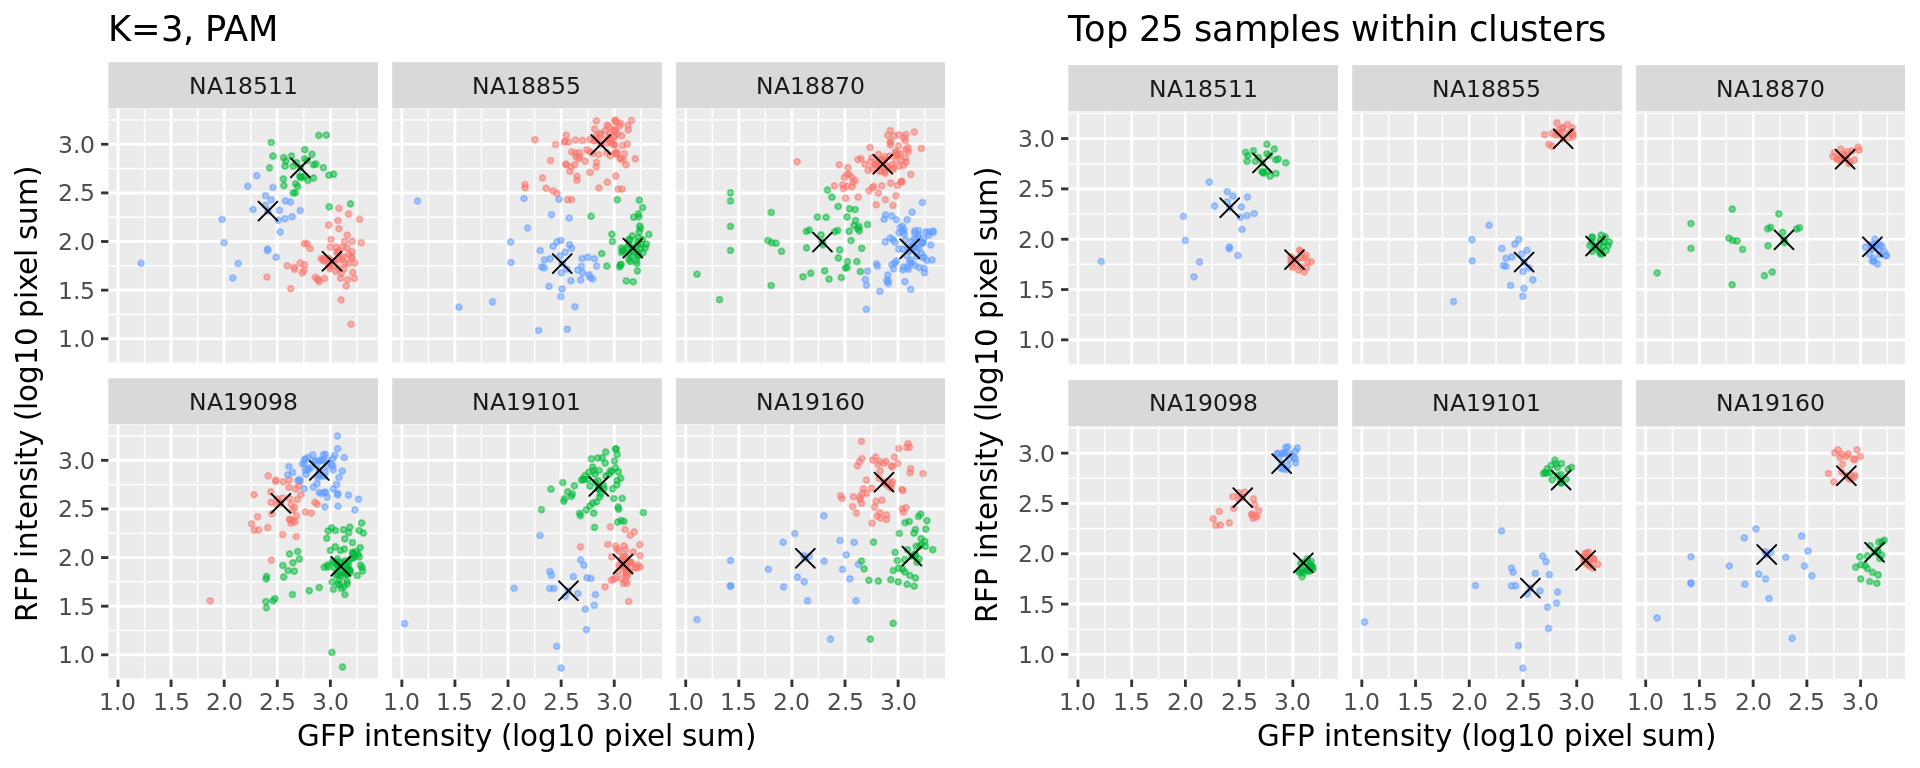
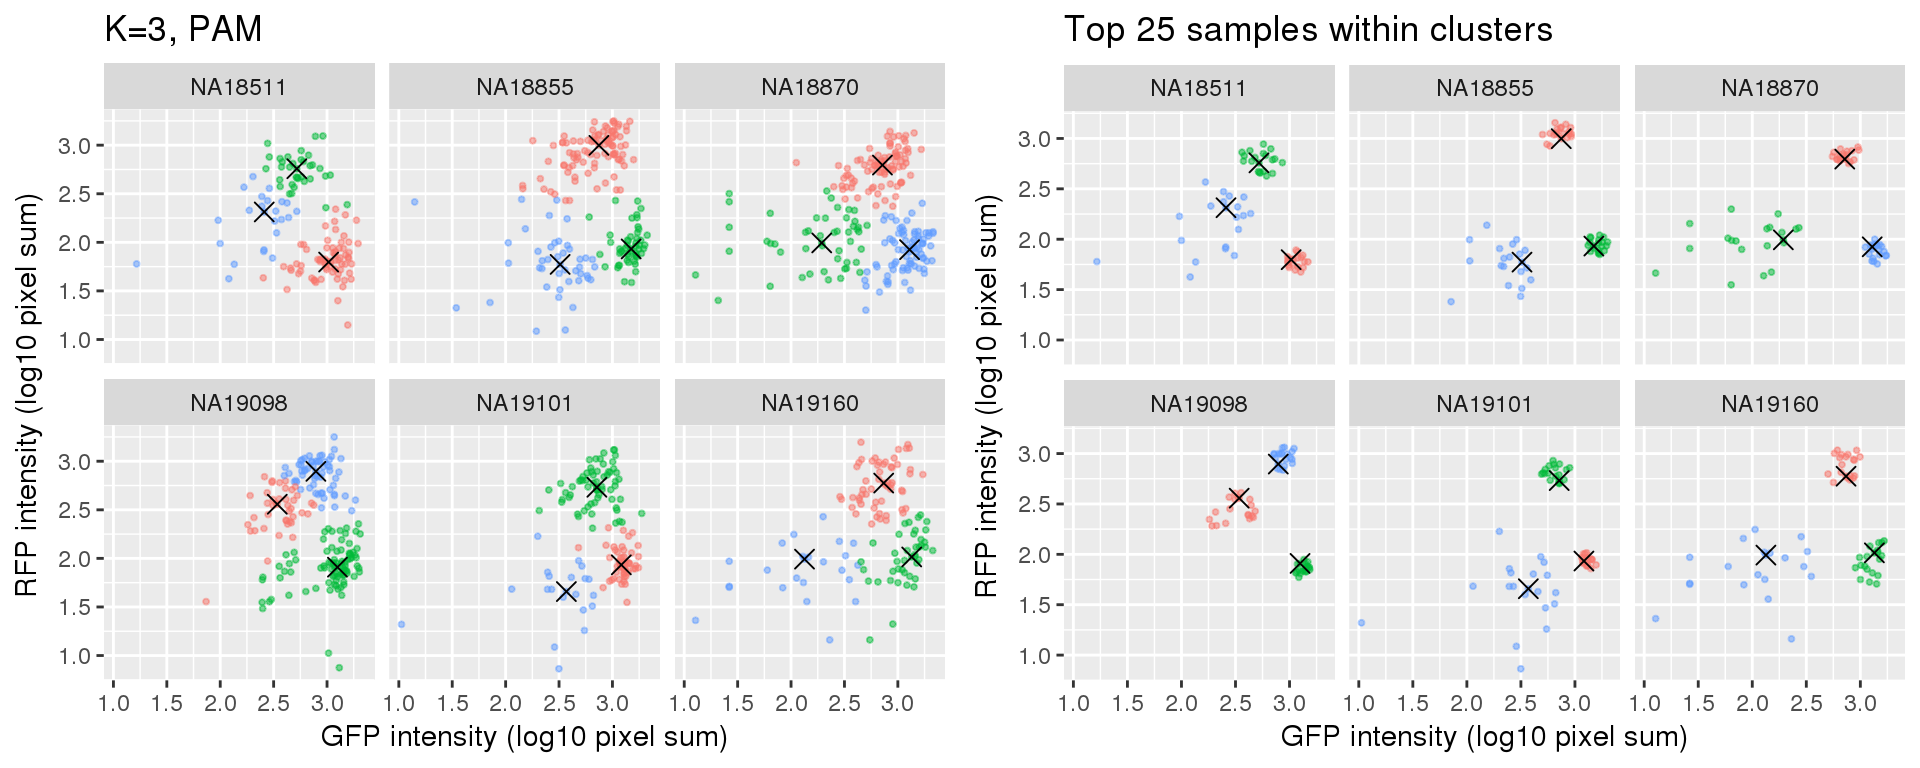
Build site.

diff --git a/docs/images-subset-silhouette.html b/docs/images-subset-silhouette.html
@@ -319,10 +319,10 @@ div.section {
 shared across the workflowr files. -->
 <!-- Update knitr chunk options -->
 <!-- Insert the date the file was last updated -->
-<p><strong>Last updated:</strong> 2018-01-31</p>
+<p><strong>Last updated:</strong> 2018-02-23</p>
 <!-- Insert the code version (Git commit SHA1) if Git repository exists and R
  package git2r is installed -->
-<p><strong>Code version:</strong> 8ea93f0</p>
+<p><strong>Code version:</strong> c881cde</p>
 <hr />
 <div id="overviewresults" class="section level2">
 <h2>Overview/Results</h2>
@@ -357,11 +357,13 @@ pdata &lt;- pData(df)
 fdata &lt;- fData(df)
 
 # select endogeneous genes
-counts &lt;- exprs(df)[grep(&quot;ERCC&quot;, rownames(df), invert=TRUE), ]</code></pre>
+counts &lt;- exprs(df)[grep(&quot;ERCC&quot;, rownames(df), invert=TRUE), ]
+
+pdata.adj &lt;- readRDS(&quot;../output/images-normalize-anova.Rmd/pdata.adj.rds&quot;)</code></pre>
 <hr />
 </div>
-<div id="analysis" class="section level2">
-<h2>Analysis</h2>
+<div id="raw-data" class="section level2">
+<h2>Raw data</h2>
 <p>Fitting PAM for cells using only green and red intensity measurements.</p>
 <pre class="r"><code>ints &lt;- with(pdata, data.frame(rfp.median.log10sum,
                                gfp.median.log10sum))
@@ -416,17 +418,13 @@ mclust_fit_plot &lt;- do.call(rbind, lapply(1:uniqueN(ints$chip_id), function(i)
     df_sub &lt;- data.frame(df_sub, cluster=as.factor(mclust_fit[[i]]$classification))
     return(df_sub)
 }))</code></pre>
-<hr />
-</div>
-<div id="cluster-centers" class="section level2">
-<h2>Cluster centers</h2>
-<p>Compare PAM vs. Mclust results</p>
+<div id="compare-pam-vs.mclust" class="section level3">
+<h3>Compare PAM vs. Mclust</h3>
 <p><strong>k=3</strong></p>
 <p><img src="figure/images-subset-silhouette.Rmd/unnamed-chunk-4-1.png" width="960" style="display: block; margin: auto;" /></p>
-<hr />
 </div>
-<div id="compute-silhouette" class="section level2">
-<h2>Compute silhouette</h2>
+<div id="compute-silhouette" class="section level3">
+<h3>Compute silhouette</h3>
 <p>Combine silhouette data with the intensity data.</p>
 <pre class="r"><code>si_pam &lt;- vector(&quot;list&quot;, length(pam_fit))
 for (i in 1:length(si_pam)) {
@@ -542,15 +540,194 @@ plot_grid(
     file = &quot;../output/images-subset-silhouette.Rmd/si_pam.rda&quot;)</code></pre>
 <hr />
 </div>
+</div>
+<div id="adjusted-data" class="section level2">
+<h2>Adjusted data</h2>
+<p>Fitting PAM for cells using only green and red intensity measurements.</p>
+<pre class="r"><code>ints &lt;- with(pdata.adj, data.frame(rfp.median.log10sum.adjust.ash,
+                               gfp.median.log10sum.adjust.ash))
+ints &lt;- data.frame(ints, 
+                   chip_id = as.factor(pdata$chip_id))
+
+k=3
+
+pam_fit &lt;- lapply(1:uniqueN(ints$chip_id), function(i) {
+    df_sub &lt;- subset(ints, chip_id==unique(chip_id)[i], 
+                     select = -c(chip_id))
+    fit_sub &lt;- pam(df_sub, k=k, diss=F)
+    return(fit_sub)
+  })
+names(pam_fit) &lt;- unique(ints$chip_id)
+
+mclust_fit &lt;- lapply(1:uniqueN(ints$chip_id), function(i) {
+    df_sub &lt;- subset(ints, chip_id==unique(chip_id)[i], 
+                     select = -c(chip_id))
+    fit_sub &lt;- Mclust(df_sub, G=k)
+    return(fit_sub)
+})
+names(mclust_fit) &lt;- unique(ints$chip_id)
+
+
+# get centers of each cluster
+pam_centers &lt;- do.call(rbind, lapply(1:uniqueN(ints$chip_id), function(i) {
+  fit &lt;- pam_fit[[i]]
+  ints_sub &lt;- ints[ints$chip_id == unique(ints$chip_id)[i],]
+  tmp &lt;- fit$id.med
+  tmp &lt;- data.frame(ints_sub[fit$id.med,],
+                    center=c(1:3))
+  return(tmp) }) )
+
+mclust_centers &lt;- do.call(rbind, lapply(1:uniqueN(ints$chip_id), function(i) {
+  fit &lt;- mclust_fit[[i]]
+  tmp &lt;- fit$parameters$mean
+  tmp &lt;- t(tmp)
+  tmp &lt;- data.frame(tmp,center=c(1:3),
+                    chip_id=names(mclust_fit)[i])
+  return(tmp) }) )
+
+# make data read for ggplot
+pam_fit_plot &lt;- do.call(rbind, lapply(1:uniqueN(ints$chip_id), function(i) {
+    df_sub &lt;- subset(ints, chip_id==unique(chip_id)[i])
+    df_sub &lt;- data.frame(df_sub, cluster=as.factor(pam_fit[[i]]$clustering))
+    return(df_sub)
+}))
+
+mclust_fit_plot &lt;- do.call(rbind, lapply(1:uniqueN(ints$chip_id), function(i) {
+    df_sub &lt;- subset(ints, chip_id==unique(chip_id)[i])
+    df_sub &lt;- data.frame(df_sub, cluster=as.factor(mclust_fit[[i]]$classification))
+    return(df_sub)
+}))</code></pre>
+<div id="compare-pam-vs.mclust-1" class="section level3">
+<h3>Compare PAM vs. Mclust</h3>
+<p><strong>k=3</strong></p>
+<p><img src="figure/images-subset-silhouette.Rmd/unnamed-chunk-11-1.png" width="960" style="display: block; margin: auto;" /></p>
+</div>
+<div id="compute-silhouette-1" class="section level3">
+<h3>Compute silhouette</h3>
+<p>Combine silhouette data with the intensity data.</p>
+<pre class="r"><code>si_pam &lt;- vector(&quot;list&quot;, length(pam_fit))
+for (i in 1:length(si_pam)) {
+  si_tmp &lt;- silhouette(pam_fit[[i]])
+
+  si_out &lt;- lapply(1:3, function(cl) {
+    ord &lt;- order(si_tmp[si_tmp[,1]==cl, 3], decreasing=TRUE)
+    ii &lt;- as.numeric(rownames(si_tmp)[si_tmp[,1]==cl])
+    ii &lt;- ii[ord]  
+    df_sub &lt;- data.frame(ints[ii,],
+                         unique_id = rownames(pdata)[ii],
+                         cluster=cl,
+                         si=si_tmp[si_tmp[,1]==cl, 3])
+  }) 
+  si_out &lt;- do.call(rbind, si_out)
+  si_pam[[i]] &lt;- si_out
+}
+si_pam_long &lt;- do.call(rbind, si_pam)</code></pre>
+<p>Choose the top 25 in each cluster.</p>
+<pre class="r"><code>cutoff_nsamples &lt;- 20
+
+foo &lt;- lapply(1:uniqueN(si_pam_long$chip_id), function(i) {
+  foo2 &lt;- lapply(1:uniqueN(si_pam_long$cluster), function(j) {
+    df_tmp &lt;- subset(si_pam_long, chip_id == unique(si_pam_long$chip_id)[i] &amp; cluster == unique(si_pam_long$cluster)[j])
+    if (cutoff_nsamples &gt; dim(df_tmp)[1]) {
+        df_tmp_sub &lt;- df_tmp
+    } else {
+        df_tmp_sub &lt;- df_tmp[which(order(df_tmp$si, decreasing = T) %in% c(1:cutoff_nsamples)),]
+    }
+    return(df_tmp_sub)
+  })
+  foo2 &lt;- do.call(rbind, foo2)
+  return(foo2)
+})
+foo &lt;- do.call(rbind, foo)
+si_pam_25 &lt;- foo</code></pre>
+<p>Compare full set versus subset of cells.</p>
+<p><img src="figure/images-subset-silhouette.Rmd/unnamed-chunk-14-1.png" width="960" style="display: block; margin: auto;" /></p>
+<p>hard code cluster labels. default in ggplot is 1 orange, 2 green, 3 blue</p>
+<pre class="r"><code># NA18511
+# orange 1 to 3, green 2 to 2, blue 3 to 1, 
+
+# NA18855
+# orange 1 to 2, green 2 to 3, blue 3 to 1, 
+
+# NA18870
+# orange 1 to 2, green 2 to 1, blue 3 to 3
+
+# NA19098
+# orange 1 to 1, green 2 to 3, blue 3 to 2
+
+# NA19101
+# orange 1 to 3, green 2 to 2, blue 3 to 1
+
+# NA19160
+# orange 1 to 2, green 2 to 3, blue 3 to 1
+
+tmp &lt;- si_pam_long
+tmp[si_pam_long$chip_id == &quot;NA18511&quot; &amp; si_pam_long$cluster==1,]$cluster &lt;- 3
+tmp[si_pam_long$chip_id == &quot;NA18511&quot; &amp; si_pam_long$cluster==2,]$cluster &lt;- 2
+tmp[si_pam_long$chip_id == &quot;NA18511&quot; &amp; si_pam_long$cluster==3,]$cluster &lt;- 1
+
+tmp[si_pam_long$chip_id == &quot;NA18855&quot; &amp; si_pam_long$cluster==1,]$cluster &lt;- 2
+tmp[si_pam_long$chip_id == &quot;NA18855&quot; &amp; si_pam_long$cluster==2,]$cluster &lt;- 3
+tmp[si_pam_long$chip_id == &quot;NA18855&quot; &amp; si_pam_long$cluster==3,]$cluster &lt;- 1
+
+tmp[si_pam_long$chip_id == &quot;NA18870&quot; &amp; si_pam_long$cluster==1,]$cluster &lt;- 2
+tmp[si_pam_long$chip_id == &quot;NA18870&quot; &amp; si_pam_long$cluster==2,]$cluster &lt;- 1
+tmp[si_pam_long$chip_id == &quot;NA18870&quot; &amp; si_pam_long$cluster==3,]$cluster &lt;- 3
+
+tmp[si_pam_long$chip_id == &quot;NA19098&quot; &amp; si_pam_long$cluster==1,]$cluster &lt;- 1
+tmp[si_pam_long$chip_id == &quot;NA19098&quot; &amp; si_pam_long$cluster==2,]$cluster &lt;- 3
+tmp[si_pam_long$chip_id == &quot;NA19098&quot; &amp; si_pam_long$cluster==3,]$cluster &lt;- 2
+
+tmp[si_pam_long$chip_id == &quot;NA19101&quot; &amp; si_pam_long$cluster==1,]$cluster &lt;- 3
+tmp[si_pam_long$chip_id == &quot;NA19101&quot; &amp; si_pam_long$cluster==2,]$cluster &lt;- 2
+tmp[si_pam_long$chip_id == &quot;NA19101&quot; &amp; si_pam_long$cluster==3,]$cluster &lt;- 1
+
+tmp[si_pam_long$chip_id == &quot;NA19160&quot; &amp; si_pam_long$cluster==1,]$cluster &lt;- 2
+tmp[si_pam_long$chip_id == &quot;NA19160&quot; &amp; si_pam_long$cluster==2,]$cluster &lt;- 3
+tmp[si_pam_long$chip_id == &quot;NA19160&quot; &amp; si_pam_long$cluster==3,]$cluster &lt;- 1
+
+
+plot_grid(
+  ggplot(data=si_pam_long) + 
+      geom_point(aes(x=gfp.median.log10sum.adjust.ash, 
+                     y=rfp.median.log10sum.adjust.ash, col=as.factor(cluster)),
+         alpha = .5, cex = .7) + 
+      geom_point(data=pam_centers,
+                  aes(x=gfp.median.log10sum.adjust.ash,
+                      y=rfp.median.log10sum.adjust.ash), shape=4, size=3) +
+      labs(title = &quot;K=3, PAM&quot;,
+           x=&quot;GFP intensity (log10 pixel sum)&quot;, 
+           y = &quot;RFP intensity (log10 pixel sum)&quot;) + 
+      facet_wrap(~as.factor(chip_id), ncol=3) +
+      theme_gray() + theme(legend.position=&quot;none&quot;),
+  ggplot(data=si_pam_25) + 
+      geom_point(aes(x=gfp.median.log10sum.adjust.ash, 
+                     y=rfp.median.log10sum.adjust.ash, col=as.factor(cluster)),
+         alpha = .5, cex = .7) + 
+      geom_point(data=pam_centers,
+                  aes(x=gfp.median.log10sum.adjust.ash,
+                      y=rfp.median.log10sum.adjust.ash), shape=4, size=3) +
+      labs(title = &quot;Top 25 samples within clusters&quot;,
+           x=&quot;GFP intensity (log10 pixel sum)&quot;, 
+           y = &quot;RFP intensity (log10 pixel sum)&quot;) + 
+      facet_wrap(~as.factor(chip_id), ncol=3) +
+      theme_gray() + theme(legend.position=&quot;none&quot;)
+  )</code></pre>
+<p><img src="figure/images-subset-silhouette.Rmd/unnamed-chunk-15-1.png" width="672" style="display: block; margin: auto;" /></p>
+<p>save subset of cells to rds.</p>
+<pre class="r"><code>save(si_pam_long, si_pam_25, 
+    file = &quot;../output/images-subset-silhouette.Rmd/si_pam.ash.rda&quot;)</code></pre>
+<hr />
+</div>
+</div>
 <div id="session-information" class="section level2">
 <h2>Session information</h2>
 <pre><code>R version 3.4.1 (2017-06-30)
-Platform: x86_64-pc-linux-gnu (64-bit)
-Running under: Scientific Linux 7.4 (Nitrogen)
+Platform: x86_64-redhat-linux-gnu (64-bit)
+Running under: Scientific Linux 7.2 (Nitrogen)
 
 Matrix products: default
-BLAS: /home/joycehsiao/miniconda3/envs/fucci-seq/lib/R/lib/libRblas.so
-LAPACK: /home/joycehsiao/miniconda3/envs/fucci-seq/lib/R/lib/libRlapack.so
+BLAS/LAPACK: /usr/lib64/R/lib/libRblas.so
 
 locale:
  [1] LC_CTYPE=en_US.UTF-8       LC_NUMERIC=C              
@@ -565,18 +742,18 @@ attached base packages:
 [8] base     
 
 other attached packages:
-[1] tidyr_0.7.1         data.table_1.10.4   mclust_5.3         
-[4] cluster_2.0.6       cowplot_0.9.1       ggplot2_2.2.1      
+[1] tidyr_0.8.0         data.table_1.10.4-3 mclust_5.4         
+[4] cluster_2.0.6       cowplot_0.9.2       ggplot2_2.2.1      
 [7] Biobase_2.38.0      BiocGenerics_0.24.0
 
 loaded via a namespace (and not attached):
- [1] Rcpp_0.12.14     knitr_1.17       magrittr_1.5     munsell_0.4.3   
- [5] colorspace_1.3-2 rlang_0.1.4.9000 stringr_1.2.0    plyr_1.8.4      
- [9] tools_3.4.1      grid_3.4.1       gtable_0.2.0     git2r_0.19.0    
-[13] htmltools_0.3.6  yaml_2.1.16      lazyeval_0.2.0   rprojroot_1.2   
-[17] digest_0.6.12    tibble_1.3.3     purrr_0.2.2      glue_1.1.1      
-[21] evaluate_0.10.1  rmarkdown_1.8    labeling_0.3     stringi_1.1.2   
-[25] compiler_3.4.1   scales_0.4.1     backports_1.0.5 </code></pre>
+ [1] Rcpp_0.12.15     knitr_1.20       magrittr_1.5     munsell_0.4.3   
+ [5] colorspace_1.3-2 rlang_0.2.0      stringr_1.3.0    plyr_1.8.4      
+ [9] tools_3.4.1      grid_3.4.1       gtable_0.2.0     git2r_0.21.0    
+[13] htmltools_0.3.6  yaml_2.1.16      lazyeval_0.2.1   rprojroot_1.3-2 
+[17] digest_0.6.15    tibble_1.4.2     purrr_0.2.4      glue_1.2.0      
+[21] evaluate_0.10.1  rmarkdown_1.8    labeling_0.3     stringi_1.1.6   
+[25] compiler_3.4.1   pillar_1.1.0     scales_0.5.0     backports_1.1.2 </code></pre>
 </div>
 
 <!-- Adjust MathJax settings so that all math formulae are shown using
